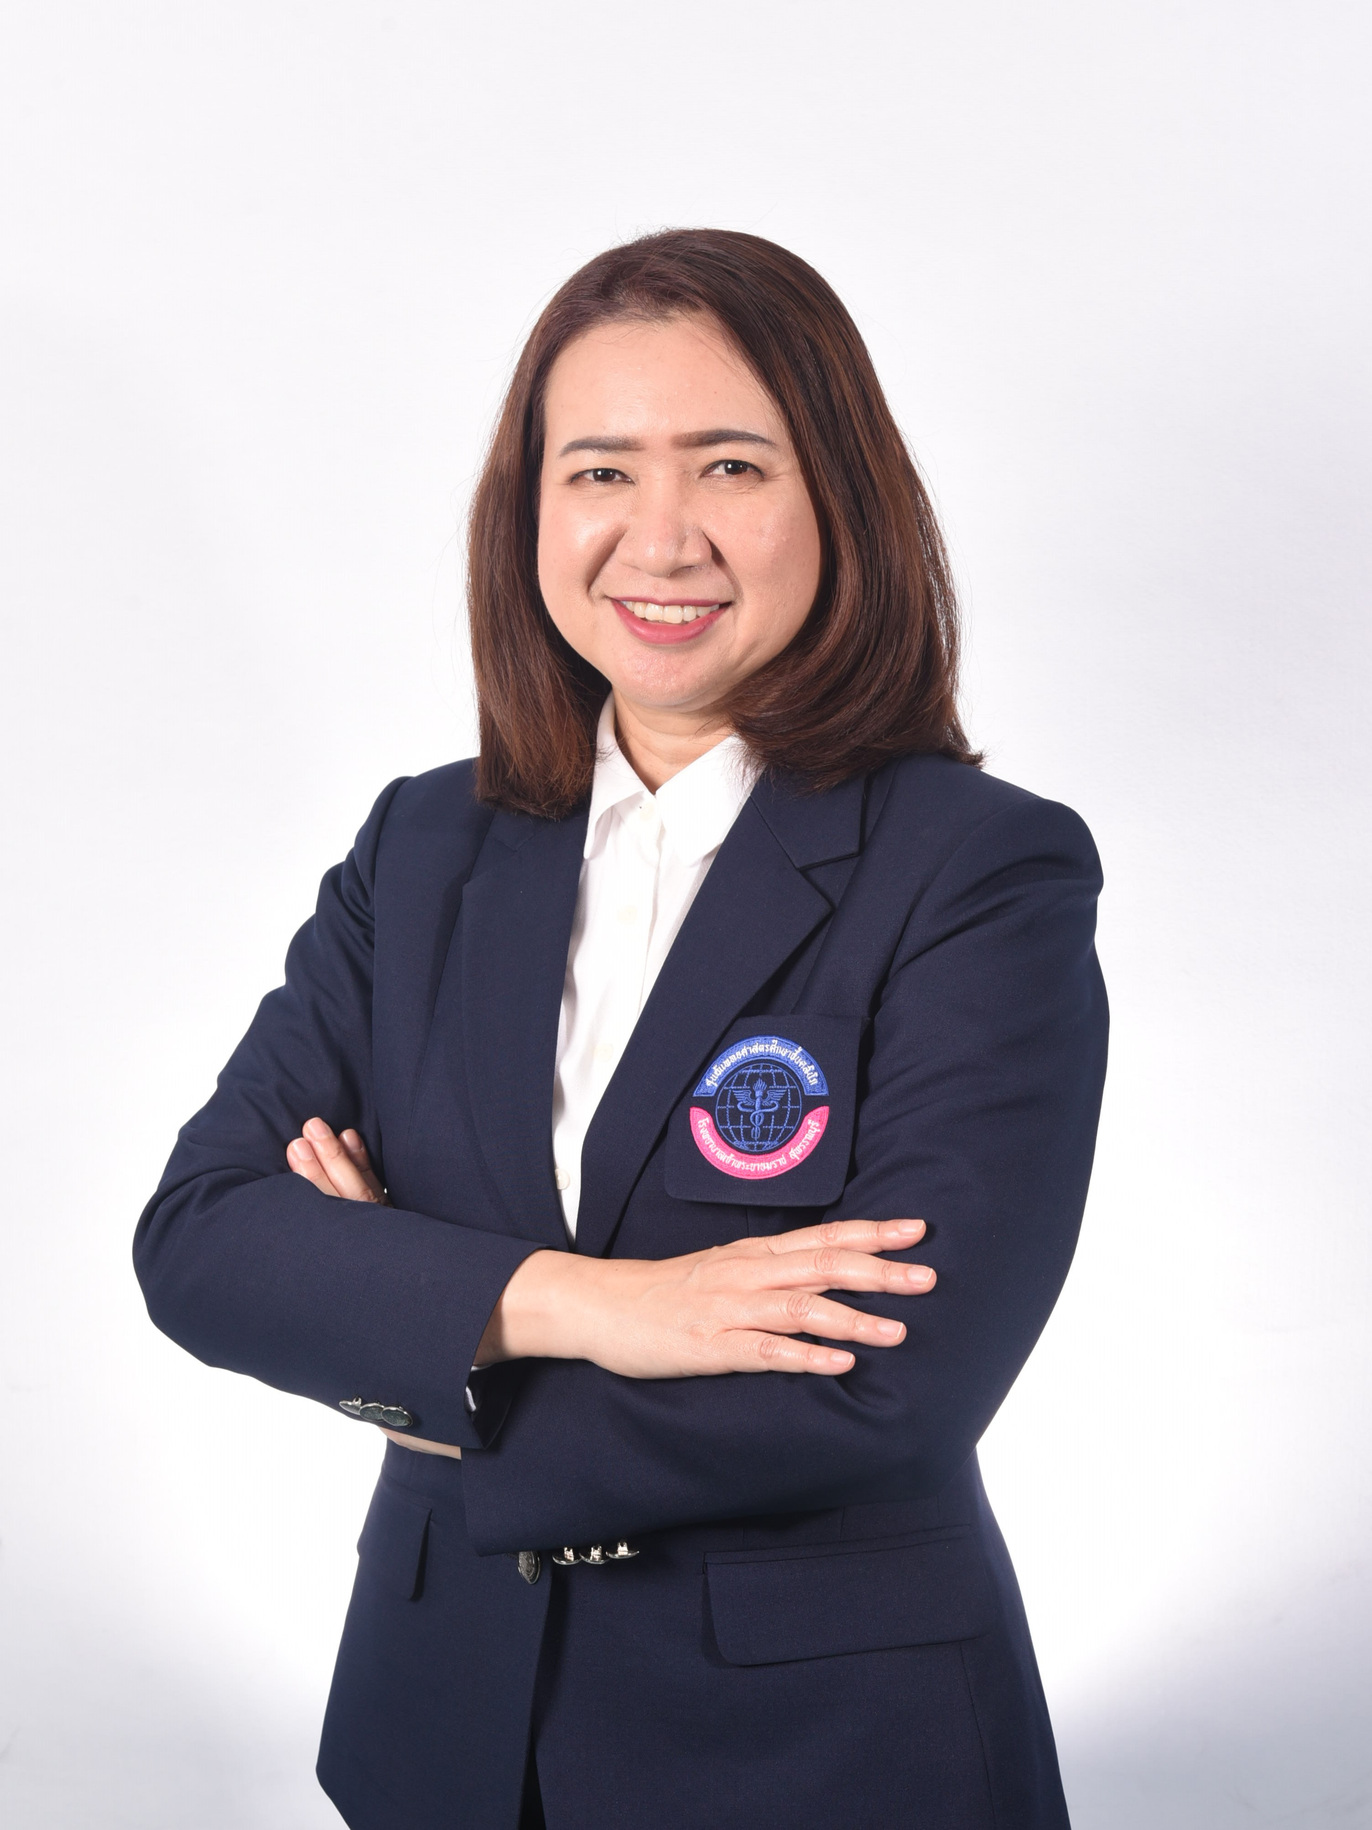
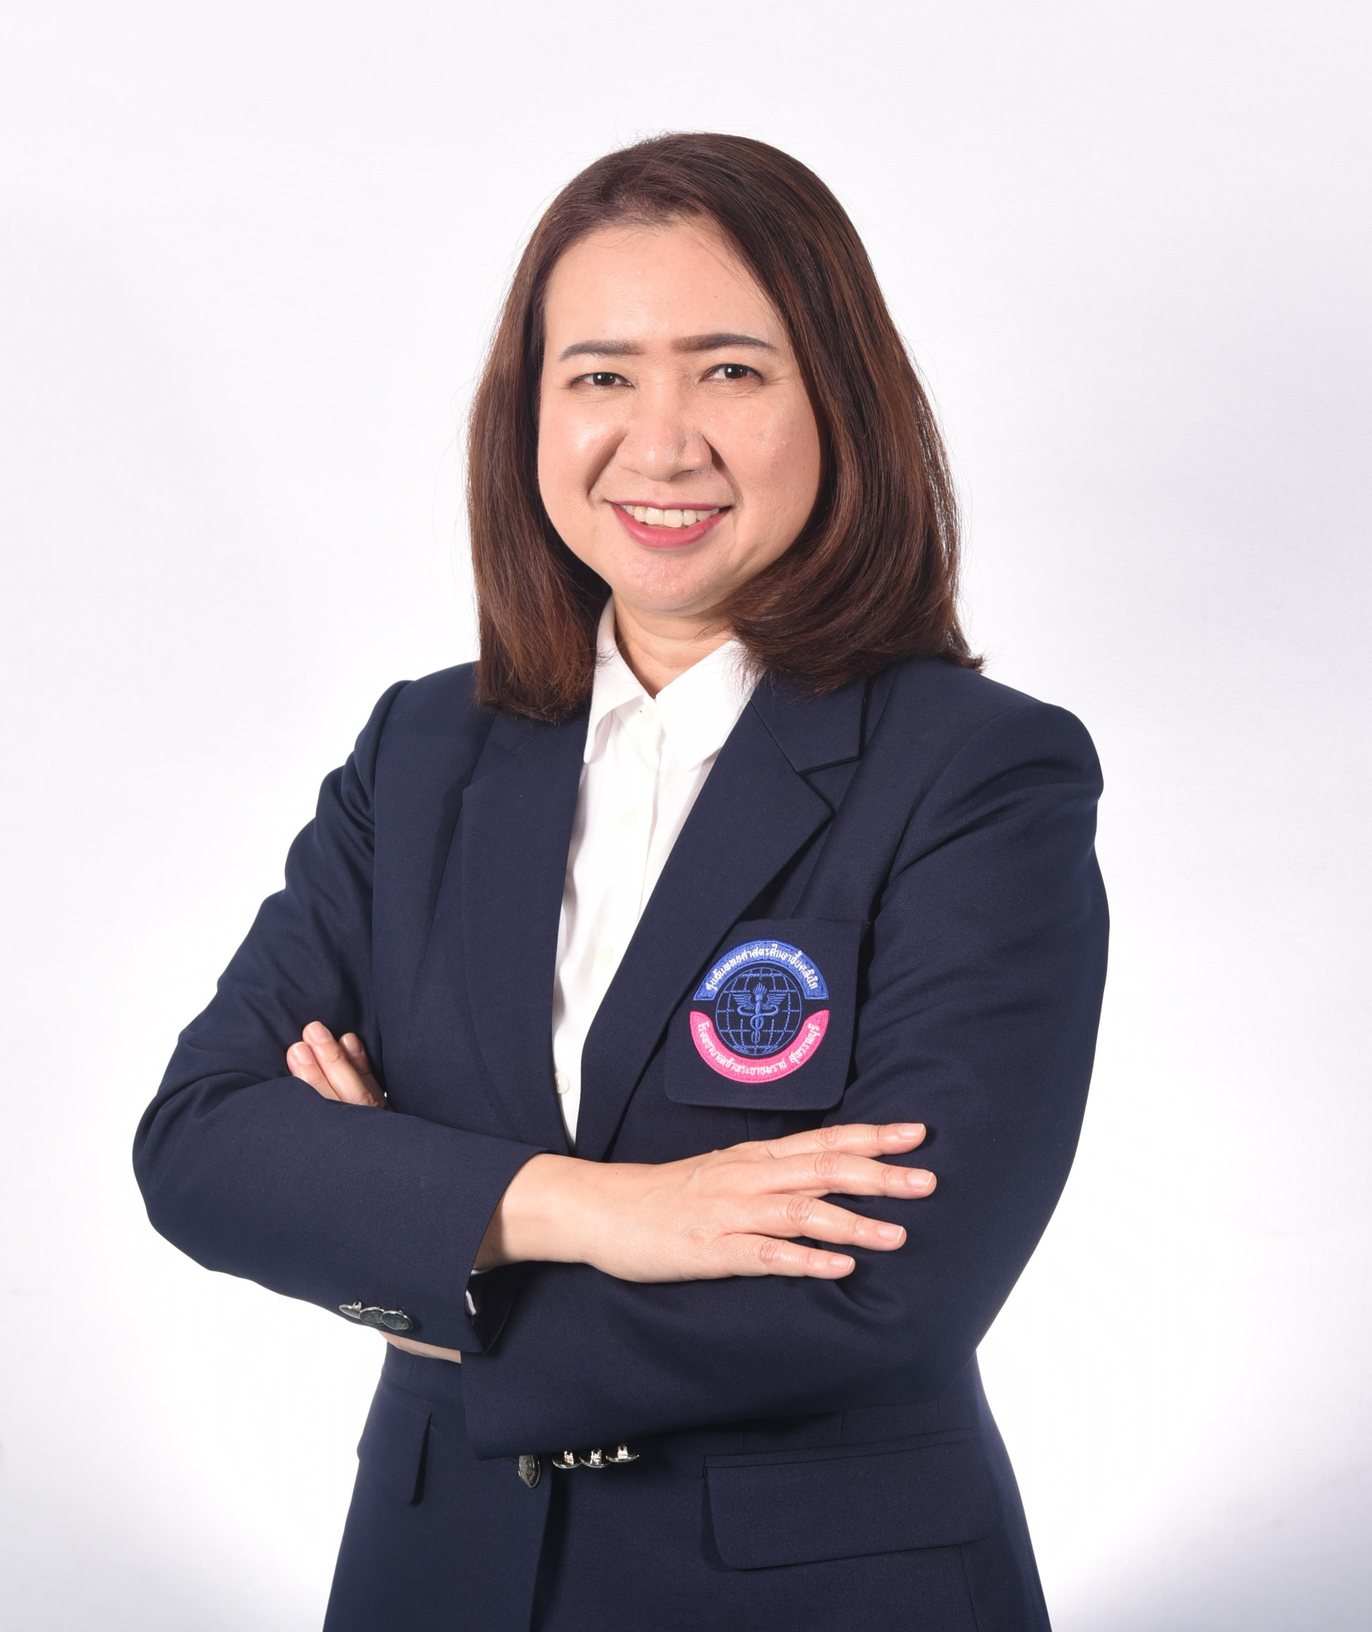
Add files via upload

diff --git a/about.html b/about.html
@@ -229,9 +229,10 @@
             margin-bottom: 8px;
         }
 
-        /* ผู้บริหารองค์กร (Executive Team) */
+        /* ผู้บริหารองค์กร & บุคลากร (Executive & Support Team) */
         .exec-section {
             text-align: center;
+            margin-bottom: 50px;
         }
         .exec-section h2 {
             font-size: 28px;
@@ -244,30 +245,57 @@
             color: #64748b;
             margin-bottom: 40px;
         }
-        .exec-grid {
-            display: grid;
-            grid-template-columns: repeat(auto-fit, minmax(260px, 1fr));
-            gap: 30px;
+
+        /* Layout แถวผู้บริหารตามรูปภาพ */
+        .exec-row {
+            display: flex;
+            justify-content: center;
+            gap: 25px;
+            margin-bottom: 25px;
+            flex-wrap: wrap;
         }
+
         .exec-card {
             background: #ffffff;
             border-radius: 16px;
-            padding: 30px 20px;
+            padding: 25px 15px;
             box-shadow: 0 4px 15px rgba(0,0,0,0.03);
             border: 1px solid #e2e8f0;
             transition: transform 0.2s;
+            display: flex;
+            flex-direction: column;
+            align-items: center;
         }
+        
+        .exec-card.row-3 {
+            width: calc(33.33% - 20px);
+            min-width: 250px;
+            max-width: 320px;
+        }
+
+        .exec-card.row-4 {
+            width: calc(25% - 20px);
+            min-width: 230px;
+            max-width: 270px;
+        }
+
+        .exec-card.row-2 {
+            width: calc(33.33% - 20px);
+            min-width: 250px;
+            max-width: 320px;
+        }
+
         .exec-card:hover {
             transform: translateY(-5px);
         }
         .exec-avatar {
             width: 140px;
-            height: 140px;
-            border-radius: 50%;
-            margin: 0 auto 20px auto;
+            height: 175px;
+            border-radius: 12px;
+            margin: 0 auto 15px auto;
             overflow: hidden;
             background-color: #e2e8f0;
-            border: 4px solid #eff6ff;
+            border: 3px solid #eff6ff;
         }
         .exec-avatar img {
             width: 100%;
@@ -275,15 +303,16 @@
             object-fit: cover;
         }
         .exec-card h4 {
-            font-size: 17px;
+            font-size: 16px;
             color: #1a2e5a;
             font-weight: 700;
-            margin-bottom: 5px;
+            margin-bottom: 6px;
         }
         .exec-card p {
             font-size: 13px;
             color: #ff5722;
-            font-weight: 600;
+            font-weight: 500;
+            line-height: 1.4;
         }
 
         /* --- Footer Styles --- */
@@ -398,72 +427,69 @@
             color: #64748b;
         }
 
-        /* 📱 เพิ่มและปรับปรุงระบบ Responsive สำหรับสมาร์ตโฟนเต็มรูปแบบ */
-@media (max-width: 768px) {
-    /* 1. ปรับ Navbar และโลโก้ให้พอดีจอมือถือ */
-    .navbar {
-        flex-direction: column;
-        gap: 15px;
-        padding: 15px 20px;
-    }
-    .logo-box {
-        flex-direction: row;
-        text-align: left;
-    }
-    .logo-box h3 {
-        font-size: 13px;
-    }
-    .logo-box p {
-        font-size: 10px;
-    }
-    .navbar ul {
-        gap: 12px;
-        flex-wrap: wrap;
-        justify-content: center;
-        width: 100%;
-    }
-    .navbar a {
-        font-size: 13px;
-    }
+        /* 📱 Responsive สำหรับสมาร์ตโฟน */
+        @media (max-width: 768px) {
+            .navbar {
+                flex-direction: column;
+                gap: 15px;
+                padding: 15px 20px;
+            }
+            .logo-box {
+                flex-direction: row;
+                text-align: left;
+            }
+            .logo-box h3 {
+                font-size: 13px;
+            }
+            .logo-box p {
+                font-size: 10px;
+            }
+            .navbar ul {
+                gap: 12px;
+                flex-wrap: wrap;
+                justify-content: center;
+                width: 100%;
+            }
+            .navbar a {
+                font-size: 13px;
+            }
 
-    /* 2. ปรับ Hero Banner ย่อสเกลตัวอักษรและระยะ Padding */
-    .hero {
-        padding: 60px 20px;
-    }
-    .hero h1 {
-        font-size: 24px;
-    }
-    .hero h2 {
-        font-size: 16px;
-    }
-    .hero p {
-        font-size: 14px;
-    }
+            .hero {
+                padding: 60px 20px;
+            }
+            .hero h1 {
+                font-size: 24px;
+            }
+            .hero h2 {
+                font-size: 16px;
+            }
+            .hero p {
+                font-size: 14px;
+            }
 
-    /* 3. จัดระเบียบเนื้อหาประวัติ วิสัยทัศน์ และคณะผู้บริหารเป็นแนวตั้ง */
-    .history-grid, .vm-grid {
-        grid-template-columns: 1fr;
-        gap: 25px;
-    }
-    .history-img {
-        height: 220px;
-    }
-    .vm-card {
-        padding: 25px 20px;
-    }
-    .exec-grid {
-        grid-template-columns: 1fr;
-        gap: 20px;
-    }
+            .history-grid, .vm-grid {
+                grid-template-columns: 1fr;
+                gap: 25px;
+            }
+            .history-img {
+                height: 220px;
+            }
+            .vm-card {
+                padding: 25px 20px;
+            }
 
-    /* 4. ปรับ Footer ให้เรียงลงมาพอดีมือถือ */
-    .footer-container {
-        flex-direction: column;
-        gap: 30px;
-    }
-    .footer-col {
-        min-width: 100%;
-    }
+            .exec-card.row-3, .exec-card.row-4, .exec-card.row-2 {
+                width: 100%;
+                max-width: 100%;
+            }
+
+            .footer-container {
+                flex-direction: column;
+                gap: 30px;
+            }
+            .footer-col {
+                min-width: 100%;
+            }
         }
     </style>
 </head>
@@ -504,7 +530,7 @@
             <div class="history-text">
                 <h2>ประวัติความเป็นมา</h2>
                 <p>ศูนย์แพทยศาสตร์ศึกษาชั้นคลินิก โรงพยาบาลเจ้าพระยายมราช สุพรรณบุรี จัดตั้งขึ้นเพื่อจัดการเรียนการสอนชั้นคลินิกให้แก่นิสิตนักศึกษาแพทย์ ตามที่กระทรวงสาธารณสุขและมหาวิทยาลัยเกษตรศาสตร์ ได้ลงนามบันทึกข้อตกลงความร่วมมือทางวิชาการเพื่อสนับสนุนให้โรงพยาบาลเจ้าพระยายมราช จังหวัดสุพรรณบุรี เป็นโรงพยาบาลหลักในการผลิตแพทย์ ของมหาวิทยาลัยเกษตรศาสตร์ จึงได้มีการจัดตั้งศูนย์แพทยศาสตรศึกษาชั้นคลินิก โรงพยาบาลเจ้าพระยายมราช จังหวัดสุพรรณบุรี</p>
-                <p>ในปี พ.ศ. 2567โรงพยาบาลเจ้าพระยายมราช จังหวัดสุพรรณบุรี เป็นโรงพยาบาลศูนย์ขนาดใหญ่ที่มีศักยภาพ ทั้งทางด้านบุคลากรและทรัพยากรณ์ทางการแพทย์ มีความหลากหลายของผู้ป่วยที่เข้ารับการรักษา เหมาะสมต่อการเรียนรู้ของนิสิต โรงพยาบาลเจ้าพระยายมราช จังหวัดสุพรรณบุรี จึงมีความพร้อมในการทำหน้าที่เป็นโรงพยาบาลร่วมสอนหลักแก่นิสิตแพทย์ ของมหาวิทยาลัยเกษตรศาสตร์</p>
+                <p>ในปี พ.ศ. 2567 โรงพยาบาลเจ้าพระยายมราช จังหวัดสุพรรณบุรี เป็นโรงพยาบาลศูนย์ขนาดใหญ่ที่มีศักยภาพ ทั้งทางด้านบุคลากรและทรัพยากรทางการแพทย์ มีความหลากหลายของผู้ป่วยที่เข้ารับการรักษา เหมาะสมต่อการเรียนรู้ของนิสิต โรงพยาบาลเจ้าพระยายมราช จังหวัดสุพรรณบุรี จึงมีความพร้อมในการทำหน้าที่เป็นโรงพยาบาลร่วมสอนหลักแก่นิสิตแพทย์ ของมหาวิทยาลัยเกษตรศาสตร์</p>
             </div>
             <div class="history-img">
                 <img src="about-building.jpg" alt="อาคารศูนย์แพทยศาสตร์ศึกษาชั้นคลินิก">
@@ -522,42 +548,104 @@
                 <div class="vm-icon"><i class="fa-solid fa-bullseye"></i></div>
                 <h3>พันธกิจ (Mission)</h3>
                 <ul>
-                    <li>1.ผลิตบัณฑิตแพทย์ที่ยึดมั่นในจรรยาบรรณวิชาชีพและความรู้ตามมาตรฐานแพทยสภา</li>
-                    <li>2.สร้างสิ่งแวดล้อมให้เพียบพร้อมด้วยวิชาการ ที่เอื้อให้ผู้เรียนเป็นผู้สร้างองค์ความรู้ด้วยตนเองตามทฤษฎีประกอบสร้างนิยม (Constructivism)อย่างมีความสุข</li>
-                    <li>3.พัฒนาหลักสูตร รูปแบบและผลลัพธ์การเรียนรู้ การวัดและการประเมินผลการศึกษา การประกันคุณภาพให้เป็นไปตามมาตรฐานแพทยสภา</li>
+                    <li>1. ผลิตบัณฑิตแพทย์ที่ยึดมั่นในจรรยาบรรณวิชาชีพและความรู้ตามมาตรฐานแพทยสภา</li>
+                    <li>2. สร้างสิ่งแวดล้อมให้เพียบพร้อมด้วยวิชาการ ที่เอื้อให้ผู้เรียนเป็นผู้สร้างองค์ความรู้ด้วยตนเองตามทฤษฎีประกอบสร้างนิยม (Constructivism) อย่างมีความสุข</li>
+                    <li>3. พัฒนาหลักสูตร รูปแบบและผลลัพธ์การเรียนรู้ การวัดและการประเมินผลการศึกษา การประกันคุณภาพให้เป็นไปตามมาตรฐานแพทยสภา</li>
                 </ul>
             </div>
         </div>
 
         <!-- ทำเนียบผู้บริหาร -->
-        <div class="exec-section">
+        <section class="exec-section">
             <h2>คณะผู้บริหาร</h2>
             <p class="exec-subtitle">ศูนย์แพทยศาสตร์ศึกษาชั้นคลินิก โรงพยาบาลเจ้าพระยายมราช</p>
             
-            <div class="exec-grid">
-                <div class="exec-card">
+            <!-- แถวที่ 1: ผู้บริหารระดับสูง 3 ท่าน -->
+            <div class="exec-row">
+                <div class="exec-card row-3">
                     <div class="exec-avatar">
-                        <img src="V.JPG" alt="รองผู้อำนวยการฝ่ายวิชาการ">
+                        <img src="PCH.jpg" alt="พญ.พัชรพรรณ ศรีขวัญเจริญ">
                     </div>
-                    <h4>วีรภัทร พาพันธุ์เรือง</h4>
-                    <p>รองผู้อำนวยการฝ่ายวิชาการ</p>
+                    <h4>พญ.พัชรพรรณ ศรีขวัญเจริญ</h4>
+                    <p>รองผู้อำนวยการศูนย์แพทย์ฯ<br>ด้านวัดและประเมินผล</p>
                 </div>
-                <div class="exec-card">
+
+                <div class="exec-card row-3">
                     <div class="exec-avatar">
-                        <img src="P.JPG" alt="ผู้อำนวยการศูนย์แพทย์">
+                        <img src="P.JPG" alt="พญ.ชลธิศ นาคา">
                     </div>
                     <h4>พญ.ชลธิศ นาคา</h4>
                     <p>ผู้อำนวยการศูนย์แพทยศาสตร์ศึกษาชั้นคลินิก</p>
                 </div>
-                <div class="exec-card">
+
+                <div class="exec-card row-3">
                     <div class="exec-avatar">
-                        <img src="นพ.ณัฏฐ์ เกียรติอภิวสุ.jpg" alt="รองผู้อำนวยการฝ่ายกิจการนิสิต">
+                        <img src="K.jpg" alt="นพ.ก้าวหน้า สุขสุขะโน">
                     </div>
-                    <h4>นพ.ณัฏฐ์ เกียรติอภิวสุ</h4>
-                    <p>รองผู้อำนวยการฝ่ายกิจการนิสิต</p>
+                    <h4>นพ.ก้าวหน้า สุขสุขะโน</h4>
+                    <p>รองผู้อำนวยการศูนย์แพทย์ฯ ด้านประกันคุณภาพการศึกษาและเทคโนโลยีสารสนเทศ</p>
                 </div>
             </div>
-        </div>
+
+            <!-- แถวที่ 2: รองผู้อำนวยการ 4 ท่าน -->
+            <div class="exec-row">
+                <div class="exec-card row-4">
+                    <div class="exec-avatar">
+                        <img src="V.JPG" alt="นพ.วีรภัทร พาพันธุ์เรือง">
+                    </div>
+                    <h4>นพ.วีรภัทร พาพันธุ์เรือง</h4>
+                    <p>รองผู้อำนวยการศูนย์แพทย์ฯ<br>ด้านวิชาการ</p>
+                </div>
+
+                <div class="exec-card row-4">
+                    <div class="exec-avatar">
+                        <img src="R.jpg" alt="พญ.รติกร อนุสรทนาวัฒน์">
+                    </div>
+                    <h4>พญ.รติกร อนุสรทนาวัฒน์</h4>
+                    <p>รองผู้อำนวยการศูนย์แพทย์ฯ<br>ด้านงานวิจัย</p>
+                </div>
+
+                <div class="exec-card row-4">
+                    <div class="exec-avatar">
+                        <img src="นพ.ณัฏฐ์ เกียรติอภิวสุ.jpg" alt="นพ.ณัฏฐ์ เกียรติอภิวสุ">
+                    </div>
+                    <h4>นพ.ณัฏฐ์ เกียรติอภิวสุ</h4>
+                    <p>รองผู้อำนวยการศูนย์แพทย์ฯ<br>ด้านกิจการนิสิต</p>
+                </div>
+
+                <div class="exec-card row-4">
+                    <div class="exec-avatar">
+                        <img src="VR.jpg" alt="พญ.วรางคณา ชัยสงคราม">
+                    </div>
+                    <h4>พญ.วรางคณา ชัยสงคราม</h4>
+                    <p>รองผู้อำนวยการศูนย์แพทย์ฯ<br>ด้านพัฒนาอาจารย์และบุคลากร</p>
+                </div>
+            </div>
+        </section>
+
+        <!-- บุคลากรสายสนับสนุน -->
+        <section class="exec-section">
+            <h2>บุคลากรสายสนับสนุน</h2>
+            <p class="exec-subtitle">ศูนย์แพทยศาสตร์ศึกษาชั้นคลินิก โรงพยาบาลเจ้าพระยายมราช</p>
+            
+            <div class="exec-row">
+                <div class="exec-card row-2">
+                    <div class="exec-avatar">
+                        <img src="X.png" alt="บุคลากรสายสนับสนุน 1">
+                    </div>
+                    <h4>อมรรัตน์ แก้วโกมล</h4>
+                    <p>นักวิชาการศึกษา</p>
+                </div>
+
+                <div class="exec-card row-2">
+                    <div class="exec-avatar">
+                        <img src="T.jpg" alt="บุคลากรสายสนับสนุน 2">
+                    </div>
+                    <h4>ทิภารัตน์ เกิดการบุญ</h4>
+                    <p>เจ้าหน้าที่บริหารงานทั่วไป</p>
+                </div>
+            </div>
+        </section>
 
     </main>
 
